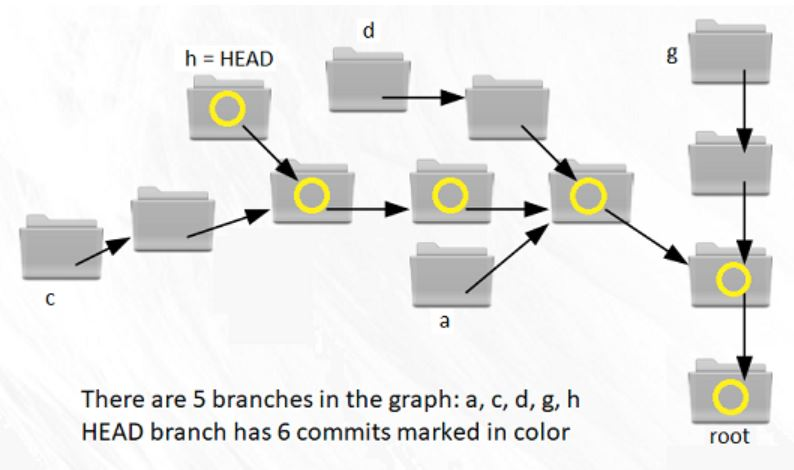
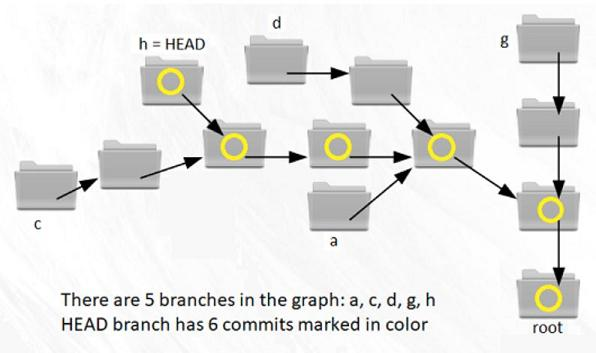
image files are made smaller

diff --git a/README.md b/README.md
@@ -2,7 +2,14 @@
 
 The aim of this project is to access the objects in any Git repository from within Java.
 
-There are only two source files -- explained in [the API](https://maeyler.github.io/GitObjects/)
+The simplicity of Git design is strongly contrasted by the rich set of commands in the user interface. 
+
+Every Git object has only three pieces of information:
+* Type: Commit, Tree, or Blob (=binary file) -- as explained below.
+* SHA: serves as a content-dependent name
+* Size: in bytes (uncompressed binary)
+
+In order to access these objects from Java, there are three source files in this repository -- see [the API](https://maeyler.github.io/GitObjects/)
 
 Start with `$ java -jar sss.jar` and click on `Menu.chooser()` and then on `Chooser.runTeacher()`
 
@@ -10,40 +17,36 @@ Select GitInspector.txt in the File dialog and then select Git.class -- Here is 
 
 We need a new Git instance in the current directory: `G = new Git()`
 
-First, display All Branches in G:  `G.getAllBranches()`
+First, display all Branches in G:  `G.getAllBranches()`
 
 ![tree branches](images/branches.JPG)
 
-There are 13 branches in our repo. Find the HEAD branch in G:  `h = G.currentHEAD()`
+There were 5 branches in our repo when this snapshot was taken. 
 
-Display All Commits in this branch:  `h.printAllCommits()`
+Find the HEAD of the current branch in G:  `h = G.currentHEAD()`
 
-HEAD branch has 21 commits in this repo
+Display all Commits in this branch:  `h.printAllCommits()`  This branch has 21 commits toward to root.
 
 ![all commits](images/all%20commits.PNG)
 
-Find the last commit in h:  `c = h.getLatestCommit()`  This is a Git object of the first kind.
+Find the latest commit in h:  `c = h.getLatestCommit()`  This is a Git object of the first kind.
 
-This object has all the information about the commit: 
+This object has all the information about the Commit: 
 * what: SHA and pointer to the Tree (contents)
 * when: time in msec and as date string
-* after: the parents (0, 1, or 2 SHA links)
+* name: human-readable name (need not be unique)
+* parent(s): 0, 1, or 2 SHA links
 * who: the author (name and e-mail)
-
-Every Git object has also 5 pieces of information:
-* Type: commit, tree, or blob (=binary file)
-* SHA serves as a content-dependent name
-* Human-readable name, need not be unique
-* Size in bytes (uncompressed binary)
-* Parent object -- either commit or tree
 
 ![latest commit](images/latest%20commit.PNG)
 
-Load the tree of this Commit:  `t = c.getTree()`  This is a Git object of the second kind: the root directory.
+Load the tree of this Commit:  `t = c.getTree()`  This is a Git object of the second kind: Tree, a directory.
 
-Get the first child in the tree:  `b = t.getChildAt(0)`  This is a Git object of the third kind: a file.
+Get the first child in the tree:  `b = t.getChildAt(0)`  This is a Git object of the third kind: Blob, a file.
 
-Finally, make and display the tree:  `n = c.toTreeNode(); Menu.toTree(n);`
+Tree and Blob objects carry the actual data. Name and parent of these objects were included in earlier versions, but they are meaningful only within a certain Commit, thus they are not part of the object data. Name is stored in the parent Tree, parent is not stored -- there is no backward reference in Git data.
+
+Finally, make and display the tree in two steps:  `n = c.toTreeNode(); Menu.toTree(n);`
 
 ![display tree](images/display%20tree.PNG)
 
@@ -54,7 +57,7 @@ Finally, make and display the tree:  `n = c.toTreeNode(); Menu.toTree(n);`
 
 It all started with [an excellent article](https://hackernoon.com/https-medium-com-zspajich-understanding-git-data-model-95eb16cc99f5) on .git/objects -- I had to try it myself!
 
-It worked fine, but the story is incomplete: Most Git objects are packed!
+It worked fine, but the story is not so simple: Most Git objects are packed!
 
 
 #### V1. GitInspector becomes Git.java
@@ -90,6 +93,14 @@ Git objects are immutable -- Rather than calculating each object from scratch, w
 
 #### V4. TreeNode is separated from Git objects
 
-TreeNode is a useful interface recognized by JTree, simplifing to display the contents of a given Commit.
+TreeNode is a useful interface recognized by JTree, simplifying to display the contents of a given Commit.
 
 In earlier versions, Git.Entry implements TreeNode. In V4, the two classes are separated.
+
+
+### References
+
+* Chap 10 in the Git Book: [Git Internals](https://git-scm.com/book/en/v2/Git-Internals-Plumbing-and-Porcelain)
+* [Understanding Git  —  Data Model](https://hackernoon.com/https-medium-com-zspajich-understanding-git-data-model-95eb16cc99f5)
+* [The Git Parable](http://tom.preston-werner.com/2009/05/19/the-git-parable.html) and [related images](https://practical-neuroimaging.github.io/_downloads/git_parable_johan_herland.pdf)
+
